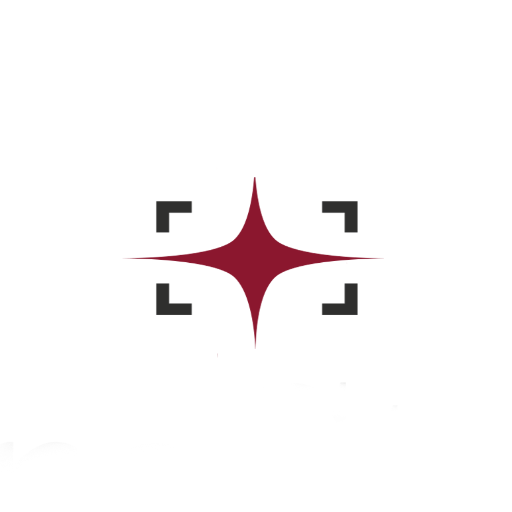
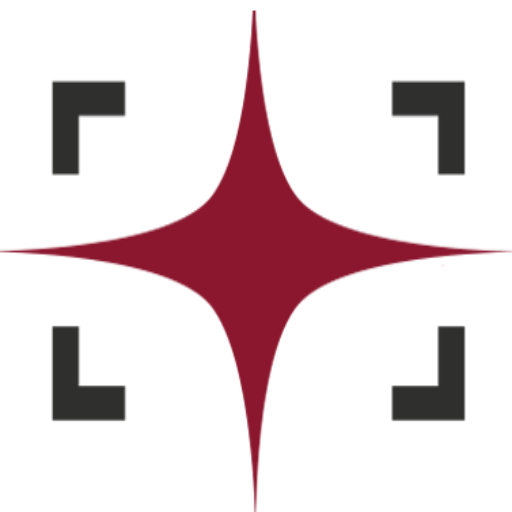
Fix

diff --git a/app/layout.js b/app/layout.js
@@ -17,8 +17,6 @@ export default function RootLayout({ children }) {
  return (
     <html lang="en">
     <head>
-        {/*<title>Shine Studio | Wedding Photography | Maternity Photography | Pre-wedding Shoots | Faridabad | Delhi NCR | Gurgaon | Gurugram | Noida</title>*/}
-        {/*<meta name='description' content='For all your photography and videography needs' />*/}
         <meta name="fragment" content="!" />
         <meta name="http-equiv" content="text/plain; charset=x-user-defined" />
         <meta name="google" content="notranslate" />

diff --git a/components/Header/header.module.css b/components/Header/header.module.css
@@ -94,13 +94,13 @@
 }
 
 .logoContainer span {
-    height: 100px;
+    height: 90px;
     background-image: var(--bg);
     background-repeat: no-repeat;
     background-size: contain;
     background-position: center;
     display: block;
-    width: 100%;
+    width: 72%;
 }
 
 .album {display: none}
@@ -110,7 +110,8 @@
         height: 50px;
     }
     .logoContainer span {
-        height: 57px;
+        height: 49px;
+        width: 90%;
     }
     .header:after {
         height: 50px;
